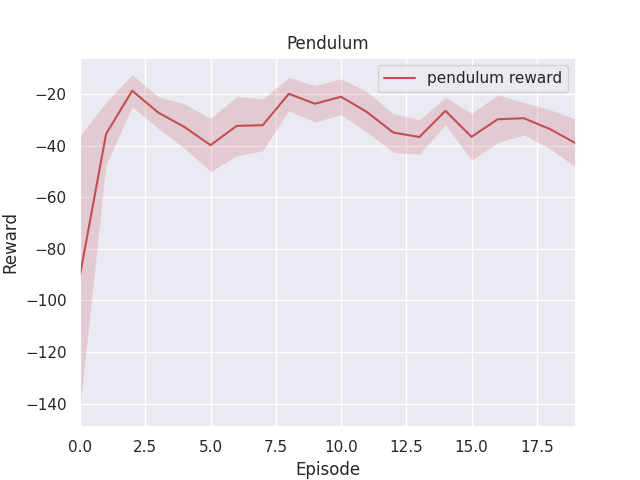
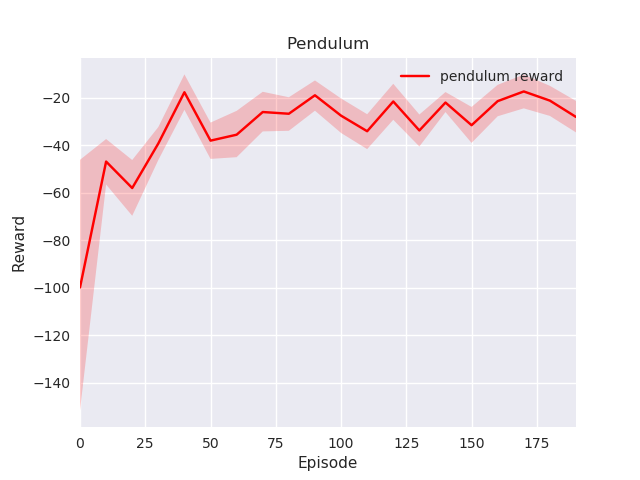
buffer finished

diff --git a/model_based_RL.py b/model_based_RL.py
@@ -5,13 +5,19 @@ import gym
 import numpy as np
 
 class MBRL():
-    def __init__(self, env, agent, lr = 1e-3):
+    def __init__(self, env, agent, lr = 1e-3, batch_size = 32):
         self.env = env
         self.agent = agent
         self.lr = lr
+        self.batch_size = batch_size
         self.f_grad = jax.value_and_grad(self.roll_out,argnums=2)
         self.value_loss_grad = jax.value_and_grad(self.loss_value,argnums=3)
         self.model_loss_grad = jax.value_and_grad(self.loss_hybrid_model,argnums=3)
+
+        self.trajectory_prev_state_buffer = jnp.zeros(env.state_size)
+        self.trajectory_action_buffer = jnp.zeros(env.action_size)
+        self.trajectory_reward_buffer = jnp.zeros(1)
+        self.trajectory_next_state_buffer = jnp.zeros(env.state_size)
 
     def step(self, context, x):
         env, agent, params = context
@@ -84,17 +90,20 @@ class MBRL():
         rewards = 0.0
         for i in range(T):
             (env, hybrid_env, agent), prev_state, control, reward, next_state, done= self.step_for_render((env, hybrid_env, agent,params), i)
-            if (i == 0):
-                trajectory_prev_state_buffer = prev_state
-                trajectory_action_buffer = control
-                trajectory_reward_buffer = reward
-                trajectory_next_state_buffer = next_state
-            else:
-                trajectory_prev_state_buffer = jnp.vstack((trajectory_prev_state_buffer,prev_state))
-                trajectory_action_buffer = jnp.vstack((trajectory_action_buffer,control))
-                trajectory_reward_buffer = jnp.vstack((trajectory_reward_buffer,reward))
-                trajectory_next_state_buffer = jnp.vstack((trajectory_next_state_buffer,next_state))
-
+            # if (i == 0):
+            #     trajectory_prev_state_buffer = prev_state
+            #     trajectory_action_buffer = control
+            #     trajectory_reward_buffer = reward
+            #     trajectory_next_state_buffer = next_state
+            # else:
+            #     trajectory_prev_state_buffer = jnp.vstack((trajectory_prev_state_buffer,prev_state))
+            #     trajectory_action_buffer = jnp.vstack((trajectory_action_buffer,control))
+            #     trajectory_reward_buffer = jnp.vstack((trajectory_reward_buffer,reward))
+            #     trajectory_next_state_buffer = jnp.vstack((trajectory_next_state_buffer,next_state))
+            self.trajectory_prev_state_buffer = jnp.vstack((self.trajectory_prev_state_buffer,prev_state))
+            self.trajectory_action_buffer = jnp.vstack((self.trajectory_action_buffer,control))
+            self.trajectory_reward_buffer = jnp.vstack((self.trajectory_reward_buffer,reward))
+            self.trajectory_next_state_buffer = jnp.vstack((self.trajectory_next_state_buffer,next_state))
                 
             # rewards = rewards * gamma + r 
             rewards = rewards + reward
@@ -106,10 +115,12 @@ class MBRL():
         
         # buffer =  [trajectory_prev_state_buffer, trajectory_action_buffer, trajectory_reward_buffer, trajectory_next_state_buffer]
         #update value function
-        value_loss, value_grads =  self.value_loss_grad(trajectory_prev_state_buffer,trajectory_next_state_buffer,trajectory_reward_buffer,agent.value_params, agent)
+        prev_state_batch, action_batch, reward_batch, next_state_batch = self.sample_batch()
+        # value_loss, value_grads =  self.value_loss_grad(trajectory_prev_state_buffer,trajectory_next_state_buffer,trajectory_reward_buffer,agent.value_params, agent)
+        value_loss, value_grads =  self.value_loss_grad(prev_state_batch, next_state_batch, reward_batch, agent.value_params, agent)
         agent.value_losses.append(value_loss)
         agent.value_params = self.update(value_grads,agent.value_params, self.lr)            
-        return rewards, trajectory_prev_state_buffer
+        return rewards, prev_state_batch
 
     def loss_hybrid_model(self, prev_state, control, true_next_state, model_params, hybrid_env):
         next_state = hybrid_env.forward(prev_state, control, model_params)
@@ -144,3 +155,15 @@ class MBRL():
                 for (w, b), (dw, db) in zip(params, grads)]
 
         return params        
+
+    def sample_batch(self):
+        if self.trajectory_prev_state_buffer.shape[0] < self.batch_size:
+            batch_size = self.trajectory_prev_state_buffer.shape[0] - 1
+        else:
+            batch_size = self.batch_size
+        idxs = np.random.choice(np.arange(1,self.trajectory_prev_state_buffer.shape[0]), batch_size, replace=False)
+        prev_state_batch = self.trajectory_prev_state_buffer[idxs,:]
+        action_batch = self.trajectory_action_buffer[idxs,:]
+        reward_batch = self.trajectory_reward_buffer[idxs,:]
+        next_state_batch = self.trajectory_next_state_buffer[idxs,:]
+        return prev_state_batch, action_batch, reward_batch, next_state_batch

diff --git a/plot.py b/plot.py
@@ -4,21 +4,64 @@ import math
 import numpy as np
 import seaborn as sns
 
+def plot_pendulum():
+    file = "examples/models/pendulum/" + "pendulum_rewards_episode_200_" + ".txt"
+    with open(file, "rb") as f:
+        data = pickle.load(f)
 
-file = "pendulum_experiments_lr_0.000010_horizon_100_2021-04-25 01:57:03/" + "pendulum_rewards_episode_200_" + ".txt"
-with open(file, "rb") as f:
-    data = pickle.load(f)
+    x1 = data
+    x1 = np.asarray(data).reshape(-1,10).T
+    time = np.asarray(range(x1.shape[1])) * 10
 
-x1 = data
-x1 = np.asarray(data).reshape(10,-1)
-time = range(x1.shape[1])
+    sns.set(style="darkgrid", font_scale=1.0)
+    sns.tsplot(time=time, data=x1, color="r", condition="pendulum reward")
+    # sns.tsplot(time=time, data=x2, color="b", condition="dagger")
 
-sns.set(style="darkgrid", font_scale=1.0)
-sns.tsplot(time=time, data=x1, color="r", condition="pendulum reward")
-# sns.tsplot(time=time, data=x2, color="b", condition="dagger")
+    plt.ylabel("Reward")
+    plt.xlabel("Episode")
+    plt.title("Pendulum")
+    plt.savefig('examples/models/pendulum/pendulum_svg_agent_value_loss_episode_%d_' % 200 + '.png')
+    plt.close()
 
-plt.ylabel("Reward")
-plt.xlabel("Episode")
-plt.title("Pendulum")
-plt.savefig('examples/models/pendulum/pendulum_svg_agent_value_loss_episode_%d_' % 200 + '.png')
-plt.close()
+def plot_cartpole():
+    file = "examples/models/cartpole/" + "cartpole_rewards_episode_1210_" + ".txt"
+    with open(file, "rb") as f:
+        data = pickle.load(f)
+
+    x1 = data[:1200]
+    x1 = np.asarray(x1).reshape(-1,50).T
+    time = np.asarray(range(x1.shape[1])) * 50
+
+    sns.set(style="darkgrid", font_scale=1.0)
+    sns.tsplot(time=time, data=x1, color="r", condition="cartpole reward")
+    # sns.tsplot(time=time, data=x2, color="b", condition="dagger")
+
+    plt.ylabel("Reward")
+    plt.xlabel("Episode")
+    plt.title("Cartpole Rewards")
+    plt.savefig('examples/models/cartpole/cartpole_svg_agent_value_loss_episode_%d_' % 1210 + '.png')
+    plt.close()
+
+def plot_arm():
+    file = "examples/models/arm/" + "arm_rewards_episode_230_" + ".txt"
+    with open(file, "rb") as f:
+        data = pickle.load(f)
+
+    x1 = data
+    x1 = np.asarray(data).reshape(-1,10).T
+    time = np.asarray(range(x1.shape[1])) * 10
+
+    sns.set(style="darkgrid", font_scale=1.0)
+    sns.tsplot(time=time, data=x1, color="r", condition="arm reward")
+    # sns.tsplot(time=time, data=x2, color="b", condition="dagger")
+
+    plt.ylabel("Reward")
+    plt.xlabel("Episode")
+    plt.title("Arm Rewards")
+    plt.savefig('examples/models/arm/arm_svg_agent_value_loss_episode_%d_' % 230 + '.png')
+    plt.close()
+
+if __name__ == '__main__':
+    # plot_pendulum()
+    plot_cartpole()
+    # plot_arm()

diff --git a/examples/cartpole_main.py b/examples/cartpole_main.py
@@ -17,9 +17,10 @@ from model_based_RL import MBRL
 
 #configs
 lr = 1e-3
-episodes_num = 1000
+batch_size = 512
+episodes_num = 2000
 T = 500 #time steps of each episode
-horizon = 100 #rollout horizon
+horizon = 20 #rollout horizon
 render_flag = True
 load_params = False
 update_params = True
@@ -33,7 +34,7 @@ agent = Deep_Agent(
              action_size = 1,
             )
 #init learner
-mbrl = MBRL(env, agent, lr = lr)
+mbrl = MBRL(env, agent, lr = lr, batch_size = batch_size)
 
 if load_params == True:
     loaded_policy_params = pickle.load( open( "examples/models/cartpole/cartpole_svg_params_episode_990_.txt", "rb" ) )
@@ -41,8 +42,9 @@ if load_params == True:
     loaded_value_params = pickle.load( open( "examples/models/cartpole/cartpole_svg_value_params_episode_990_.txt", "rb" ) )
     agent.value_params = loaded_policy_params   
 
-exp_dir = "cartpole_experiments_lr_%f_horizon_%d_" % (lr, horizon)+ strftime("%Y-%m-%d %H:%M:%S", gmtime())
+exp_dir = "cartpole_experiments_" + strftime("%Y-%m-%d %H:%M:%S", gmtime()) + "lr_%f_horizon_%d_batch_size_%d" % (lr, horizon, batch_size) 
 os.mkdir(exp_dir)
+print("exp_dir",exp_dir)
 
 #begin training
 episode_rewards = []

diff --git a/envs/arm_rbdl.py b/envs/arm_rbdl.py
@@ -65,6 +65,8 @@ class Arm_rbdl():
         # Angle at which to fail the episode
         self.theta_threshold_radians = math.pi / 2
         # self.x_threshold = 2.4
+        self.state_size = 14
+        self.action_size = 7
 
 
         self.model = UrdfWrapper("urdf/arm.urdf").model
@@ -111,8 +113,10 @@ class Arm_rbdl():
         #     self.random.get_key(), shape=(7,), minval=-0.05, maxval=0.05
         # )
 
-        q = jnp.array(list(np.random.uniform(-0.05,0.05,7)))
-        qdot = jnp.array(list(np.random.uniform(-0.05,0.05,7)))
+        # q = jnp.array(list(np.random.uniform(-0.05,0.05,7)))
+        # qdot = jnp.array(list(np.random.uniform(-0.05,0.05,7)))
+        q = jnp.zeros(7)
+        qdot = jnp.zeros(7)
         self.state = jnp.array([q,qdot]).flatten()
         return self.state
 

diff --git a/examples/arm_main.py b/examples/arm_main.py
@@ -15,10 +15,10 @@ import os
 
 
 #configs
-lr = 1e-3
+lr = 1e-5
 episodes_num = 1000
 T = 100 #time steps of each episode
-horizon = 20 #rollout horizon
+horizon = 50 #rollout horizon
 render_flag = True
 load_params = False
 update_params = True

diff --git a/Simulator/UrdfWrapper.py b/Simulator/UrdfWrapper.py
@@ -176,7 +176,7 @@ def load_urdf(file_path):
 
     #grav
     a_grav = np.zeros((6,1))
-    a_grav[5] = -9.81
+    # a_grav[5] = -9.81
     model["a_grav"] = a_grav
 
     #jtype

diff --git a/README.md b/README.md
@@ -20,10 +20,11 @@ python examples/cartpole_main.py
 
 ## Envs
 ### Pendulum
-![](examples/models/pendulum/pendulum_svg_agent_value_loss_episode_200_.png)
+![](examples/models/pendulum/cartpole_svg_agent_value_loss_episode_1210_.png)
 
 ### Cart Pole
 
+![](examples/models/cartpole/pendulum_svg_agent_value_loss_episode_200_.png)
 ![](assets/cart_pole.gif)
 
 Control the cartpole using manually calculated forward dynamics. Training converges at very fast speed(first two episodes). The cartpole can keep upright for 200 timesteps.
@@ -34,6 +35,7 @@ python examples/cartpole_NN_rbdl.py
 ```
 
 ### 7-link Arm Robot
+![](examples/models/arm/arm_svg_agent_value_loss_episode_230_.png)
 
 A 7 link arm robot contains 6 joints. The first base_link to arm_link_0 fixed joint will be interpreted as prismatic joint (rbdl index 1) by rbdl. The remaining 5 joints are revolute joints (rbdl index 0).
 ![](assets/arm_robot.gif)
